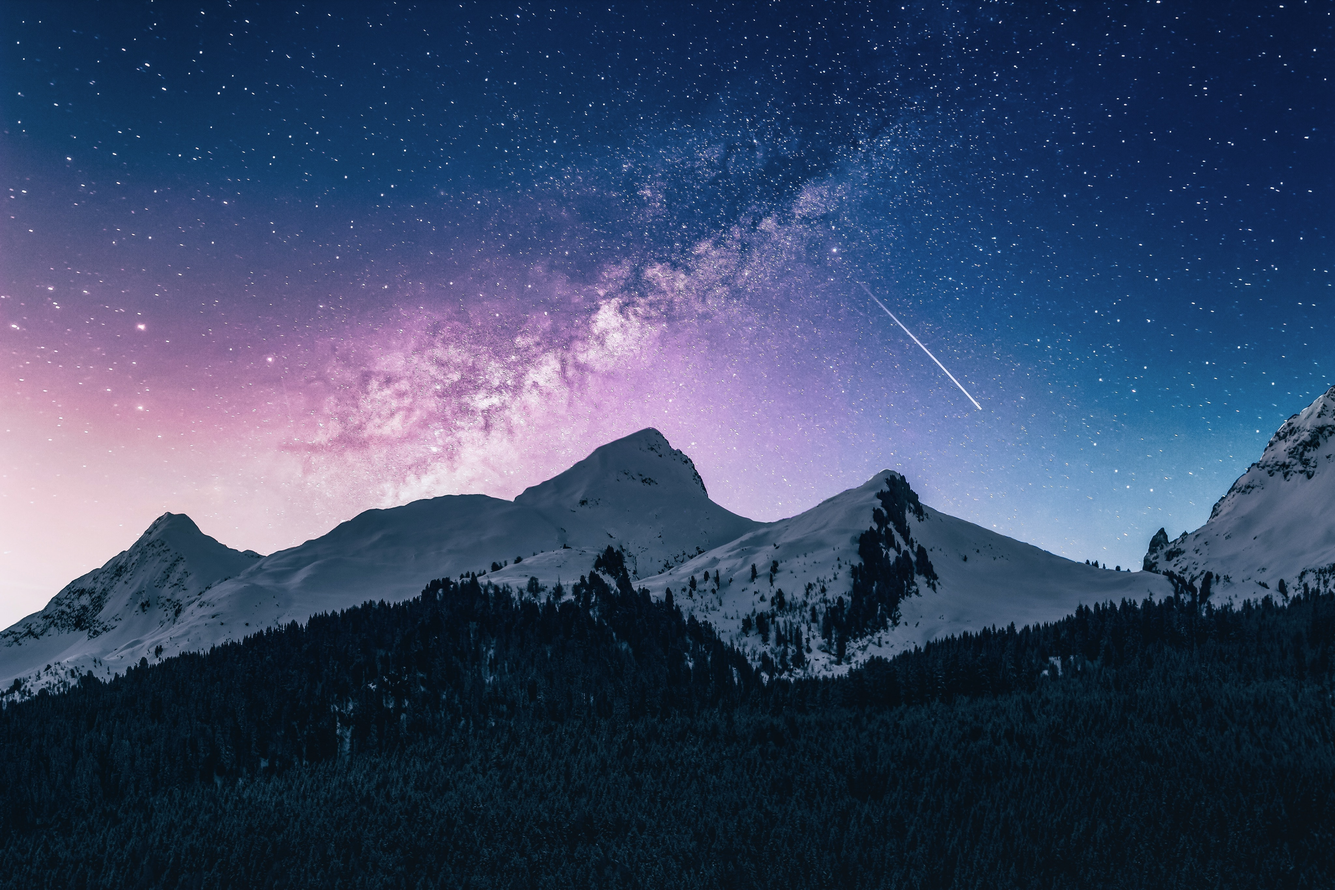
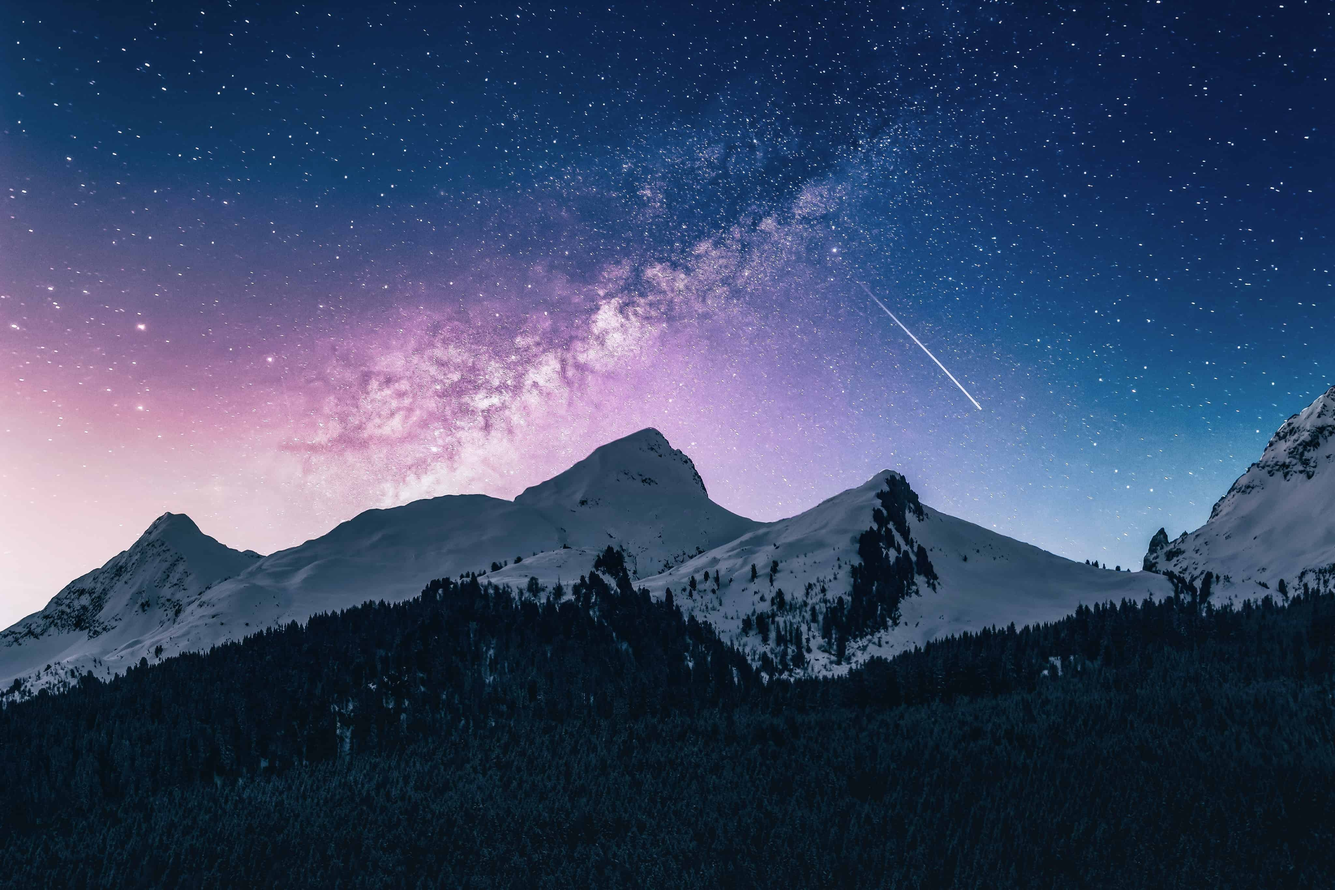
Fixed contact form and added optimalized images

Changed region(s): [[0.2188, 0.1244, 0.6875, 0.5598], [0.6875, 0.3732, 0.7188, 0.4043]]

diff --git a/frontend/src/scenes/Contact/components/ContactForm.js b/frontend/src/scenes/Contact/components/ContactForm.js
@@ -79,7 +79,7 @@ const sendMail = async (name, email, text) => {
 };
 
 const RESPONSE_SUCCESS = "Thank you for contacting me.\n\nI will get to you as soon as possible.\n\n~ Jakub Vanko";
-const RESPONSE_FAILURE = "There was an error sending your message.\n\nPlease contact me via email directly.\n\n~ Jakub Vanko";
+const RESPONSE_FAILURE = "There was an error.\n\nPlease contact me directly.\n\n~ Jakub Vanko";
 
 const ContactForm = () => {
     const [name, setName] = useState("");
